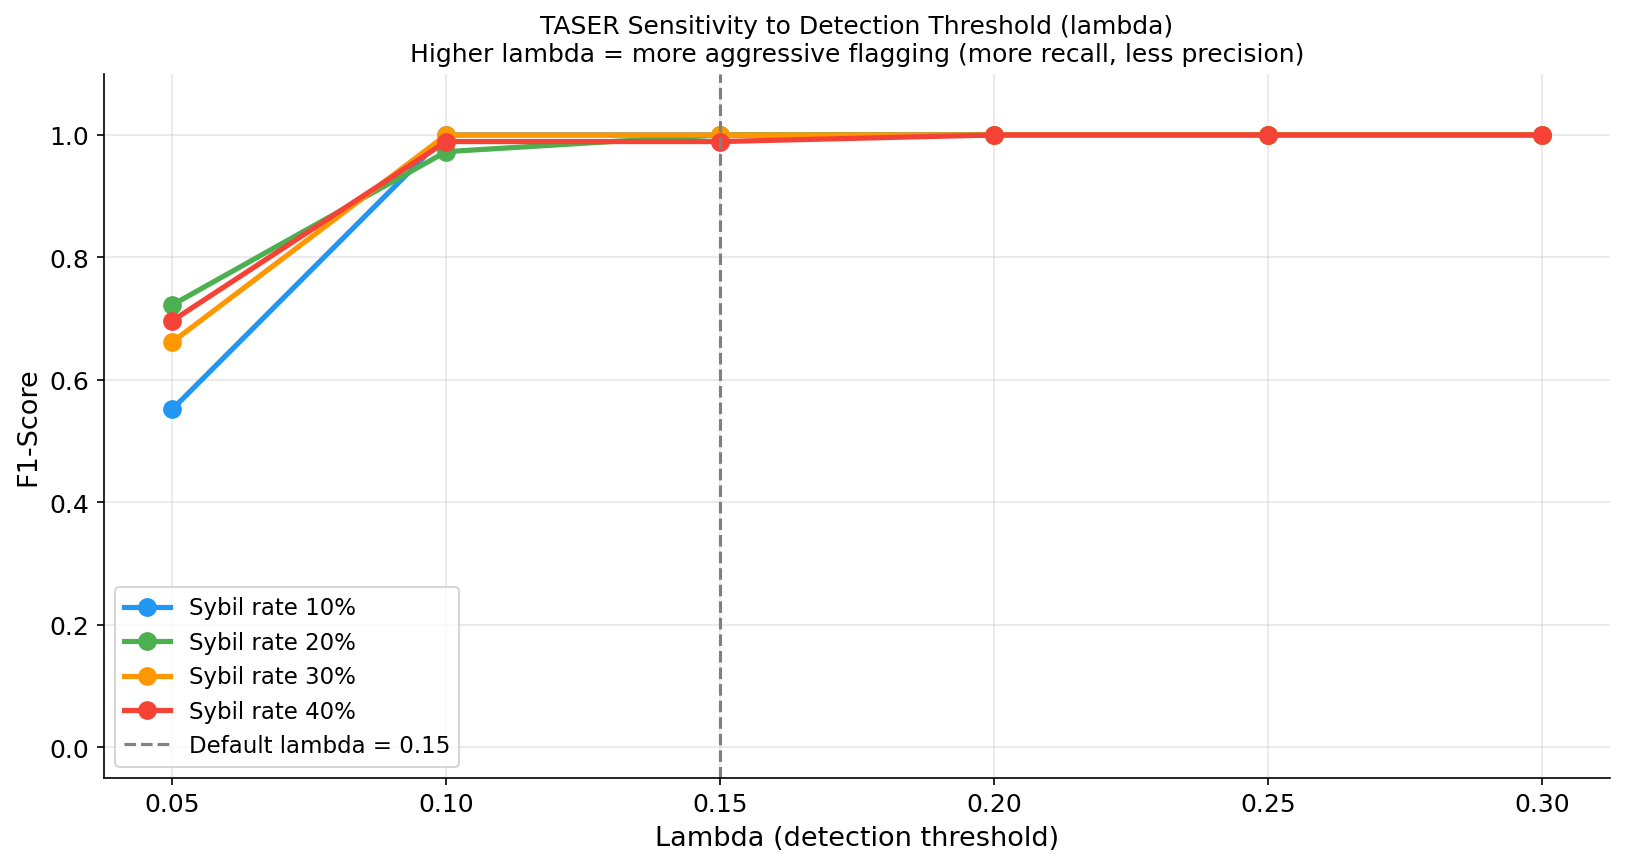
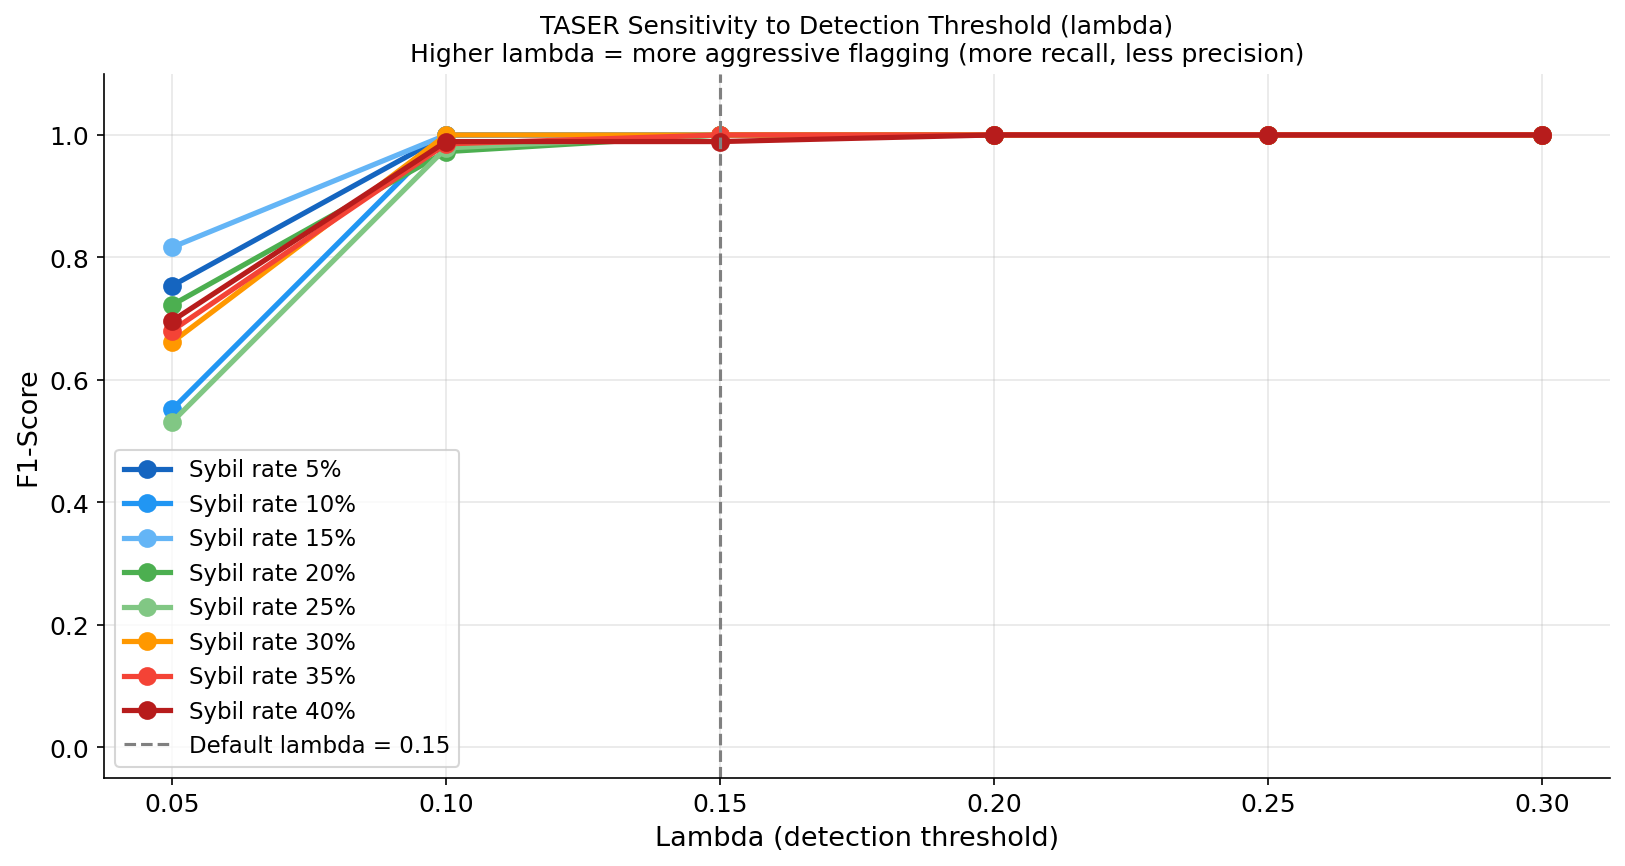
Fix sensitivity: use all 8 sybil rates, correct line count in text
- generate_sensitivity.py: RATES expanded from [10,20,30,40] to [5,10,15,20,25,30,35,40]
- Sensitivity figures now show all 8 lines (one per sybil rate)
- Report text corrected: 'four lines' -> 'eight lines'

diff --git a/results/generate_sensitivity.py b/results/generate_sensitivity.py
@@ -32,8 +32,11 @@ from detectors.taser_detector import TASERDetector
 from detectors.rsu_detector   import RSUDetector
 from detectors.iqr_detector   import IQRDetector
 
-RATES = [10, 20, 30, 40]
-COLORS_RATE = {10: "#2196F3", 20: "#4CAF50", 30: "#FF9800", 40: "#F44336"}
+RATES = [5, 10, 15, 20, 25, 30, 35, 40]
+COLORS_RATE = {
+    5:  "#1565C0", 10: "#2196F3", 15: "#64B5F6", 20: "#4CAF50",
+    25: "#81C784", 30: "#FF9800", 35: "#F44336", 40: "#B71C1C",
+}
 
 plt.rcParams.update({
     "font.size": 12, "axes.spines.top": False,
@@ -46,8 +49,8 @@ def load(rate):
 
 lines = ["# Hyperparameter Sensitivity Analysis", "",
          "Each plot shows how F1-Score changes as one hyperparameter varies,",
-         "holding all others at their default values. The four lines represent",
-         "the eight sybil rates tested.", ""]
+         "holding all others at their default values. The eight lines represent",
+         "all eight sybil rates (5% to 40%).", ""]
 
 # ---- TASER: sweep lambda -----------------------------------------------
 section = "TASER: Detection threshold (lambda)"

diff --git a/analysis/sensitivity_report.md b/analysis/sensitivity_report.md
@@ -1,8 +1,8 @@
 # Hyperparameter Sensitivity Analysis
 
 Each plot shows how F1-Score changes as one hyperparameter varies,
-holding all others at their default values. The four lines represent
-the eight sybil rates tested.
+holding all others at their default values. The eight lines represent
+all eight sybil rates (5% to 40%).
 
 ## TASER: Detection threshold (lambda)
 
@@ -10,9 +10,13 @@ the eight sybil rates tested.
 
 | Rate | F1 at lambda=0.05 | F1 at lambda=0.15 (default) | F1 at lambda=0.30 | Max delta |
 |---|---|---|---|---|
+| 5% | 0.7539 | 1.0000 | 1.0000 | 0.2461 |
 | 10% | 0.5522 | 1.0000 | 1.0000 | 0.4478 |
+| 15% | 0.8168 | 1.0000 | 1.0000 | 0.1832 |
 | 20% | 0.7225 | 1.0000 | 1.0000 | 0.2775 |
+| 25% | 0.5316 | 1.0000 | 1.0000 | 0.4684 |
 | 30% | 0.6618 | 1.0000 | 1.0000 | 0.3382 |
+| 35% | 0.6807 | 1.0000 | 1.0000 | 0.3193 |
 | 40% | 0.6966 | 0.9892 | 1.0000 | 0.3034 |
 
 **Why lambda=0.05 produces lower F1 than lambda=0.15 (counterintuitive result):**
